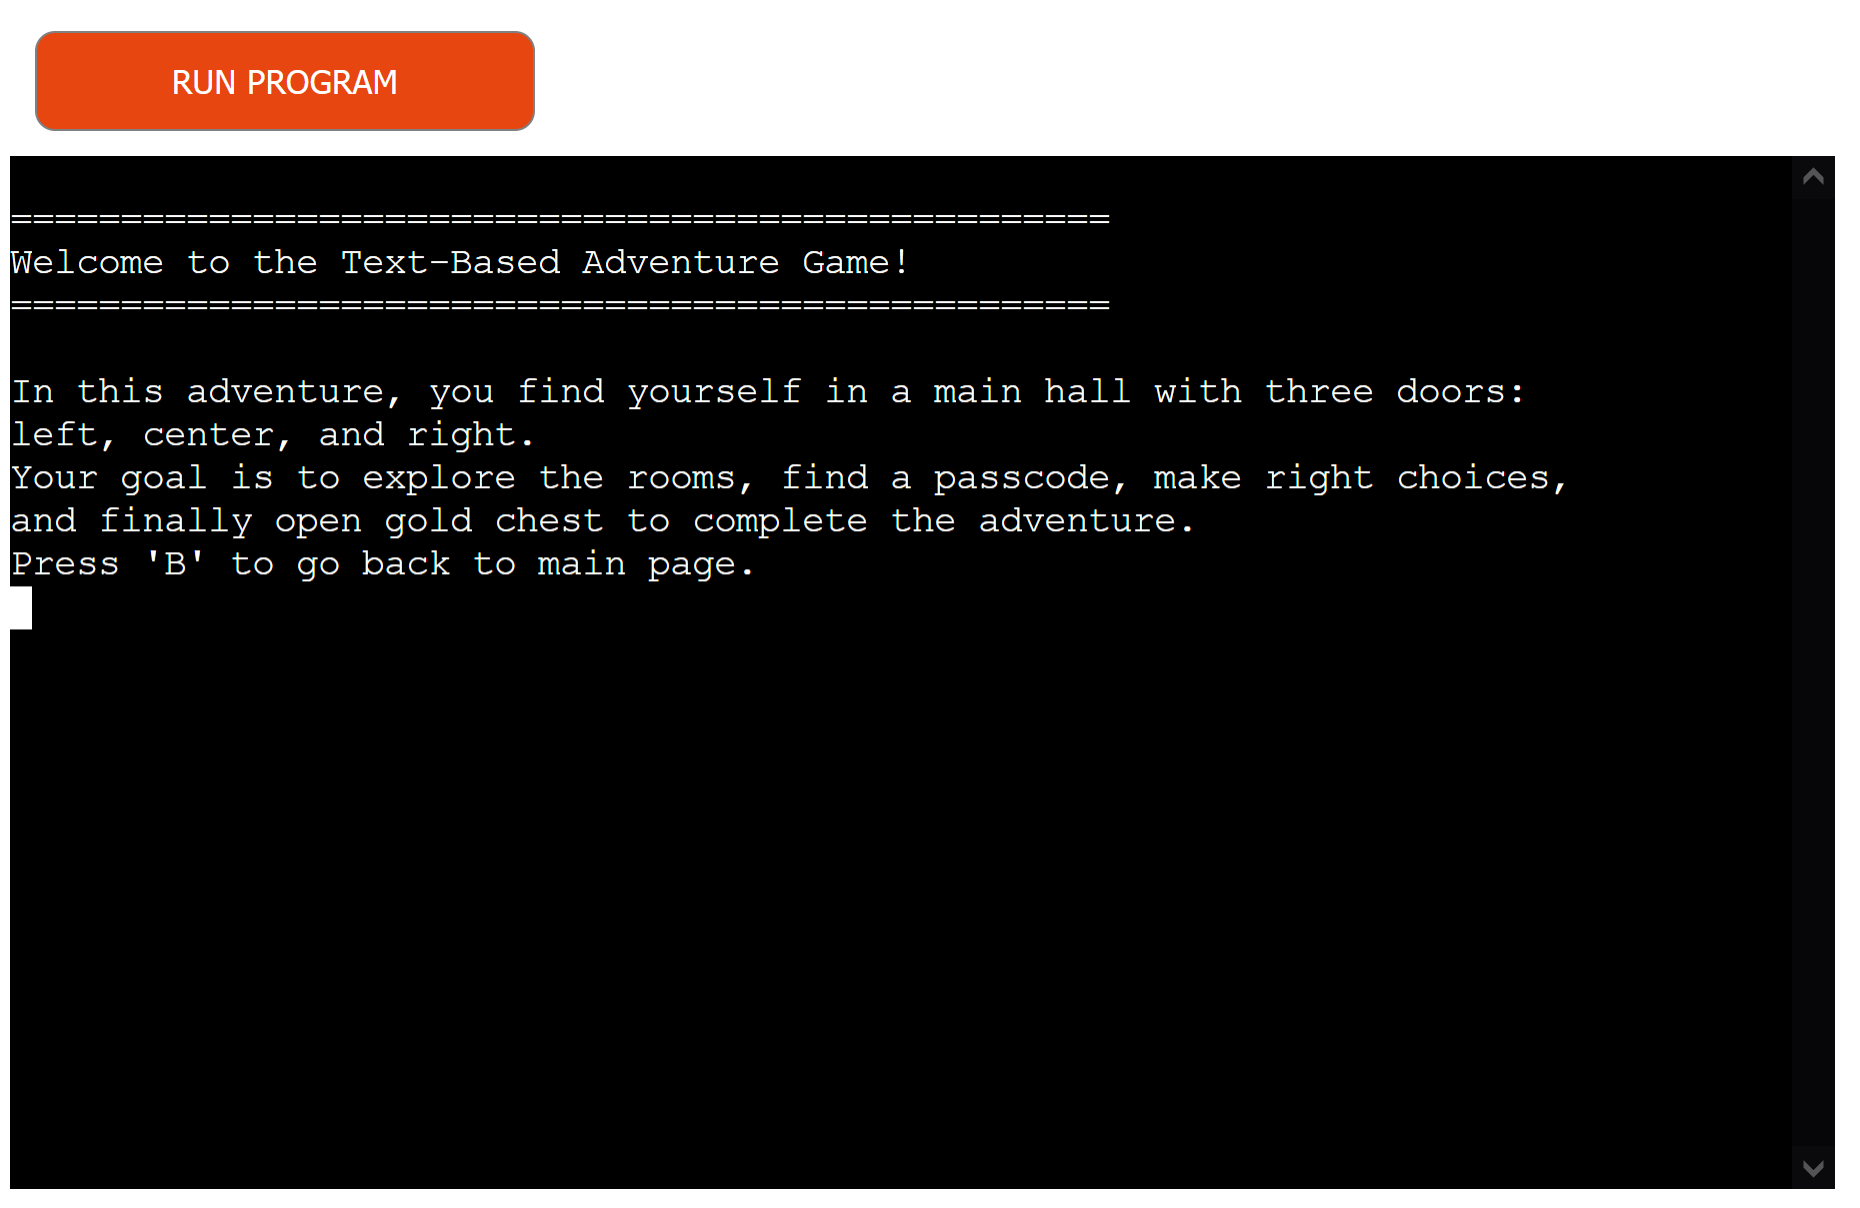
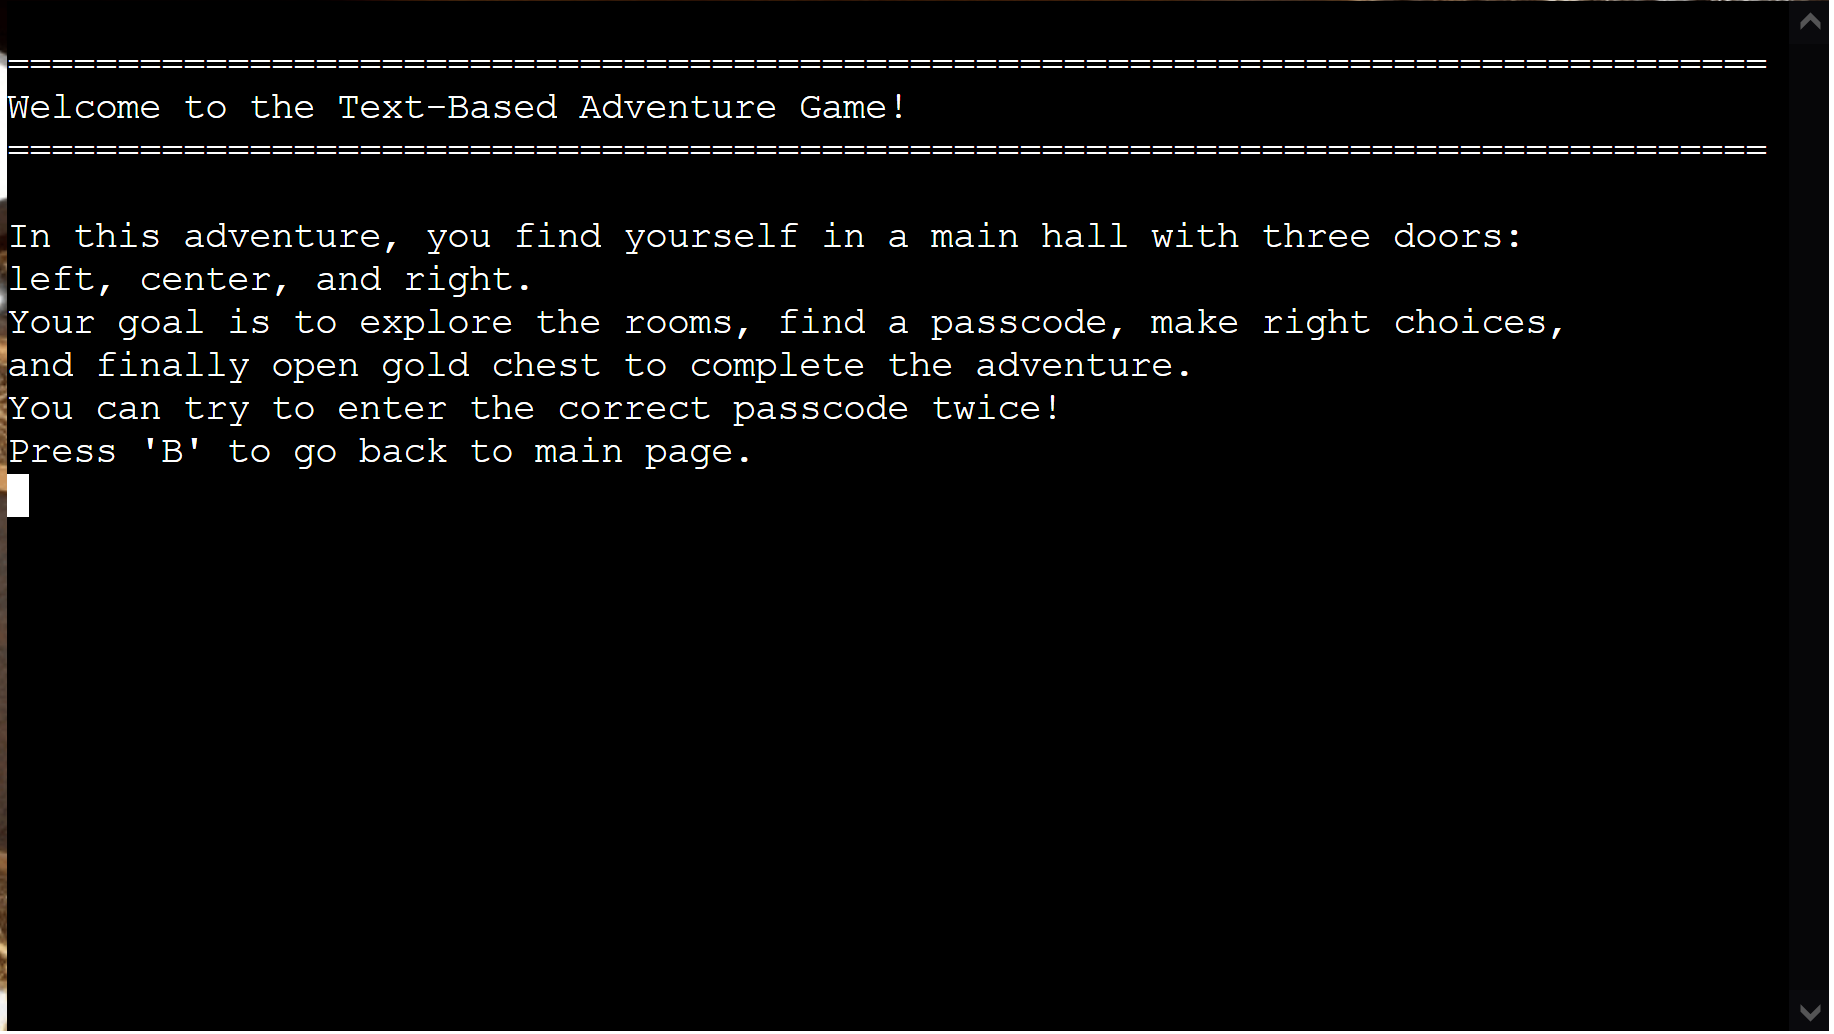
update images in readme

Changed region(s): [[0.0, 0.0, 1.0, 1.0]]

diff --git a/README.md b/README.md
@@ -31,7 +31,8 @@ The live link can be found here - <https://adventure-game-python-59a69fd7bf52.he
 - __The Description Page__
   
   - User can find information about the game here.
-  - By typing b user can go back to the main page.
+  - It is written that user can only enter the passcode to open the gold chest twice.
+  - By typing b/B user can go back to the main page.
   
 ![Description Page](readme/2.png)
 
@@ -93,7 +94,6 @@ The live link can be found here - <https://adventure-game-python-59a69fd7bf52.he
   - has_rope = False 
 
 - To enhance the game's user-friendliness, I've incorporated the lower() function into all input fields, allowing users to input text in either uppercase or lowercase.
-
 - To continue asking from a user to type the correct text, I used while loop.
 - I encountered some errors in the "right door" function, which I resolved by adjusting the indentation within the while loop or if-else statements.
 
